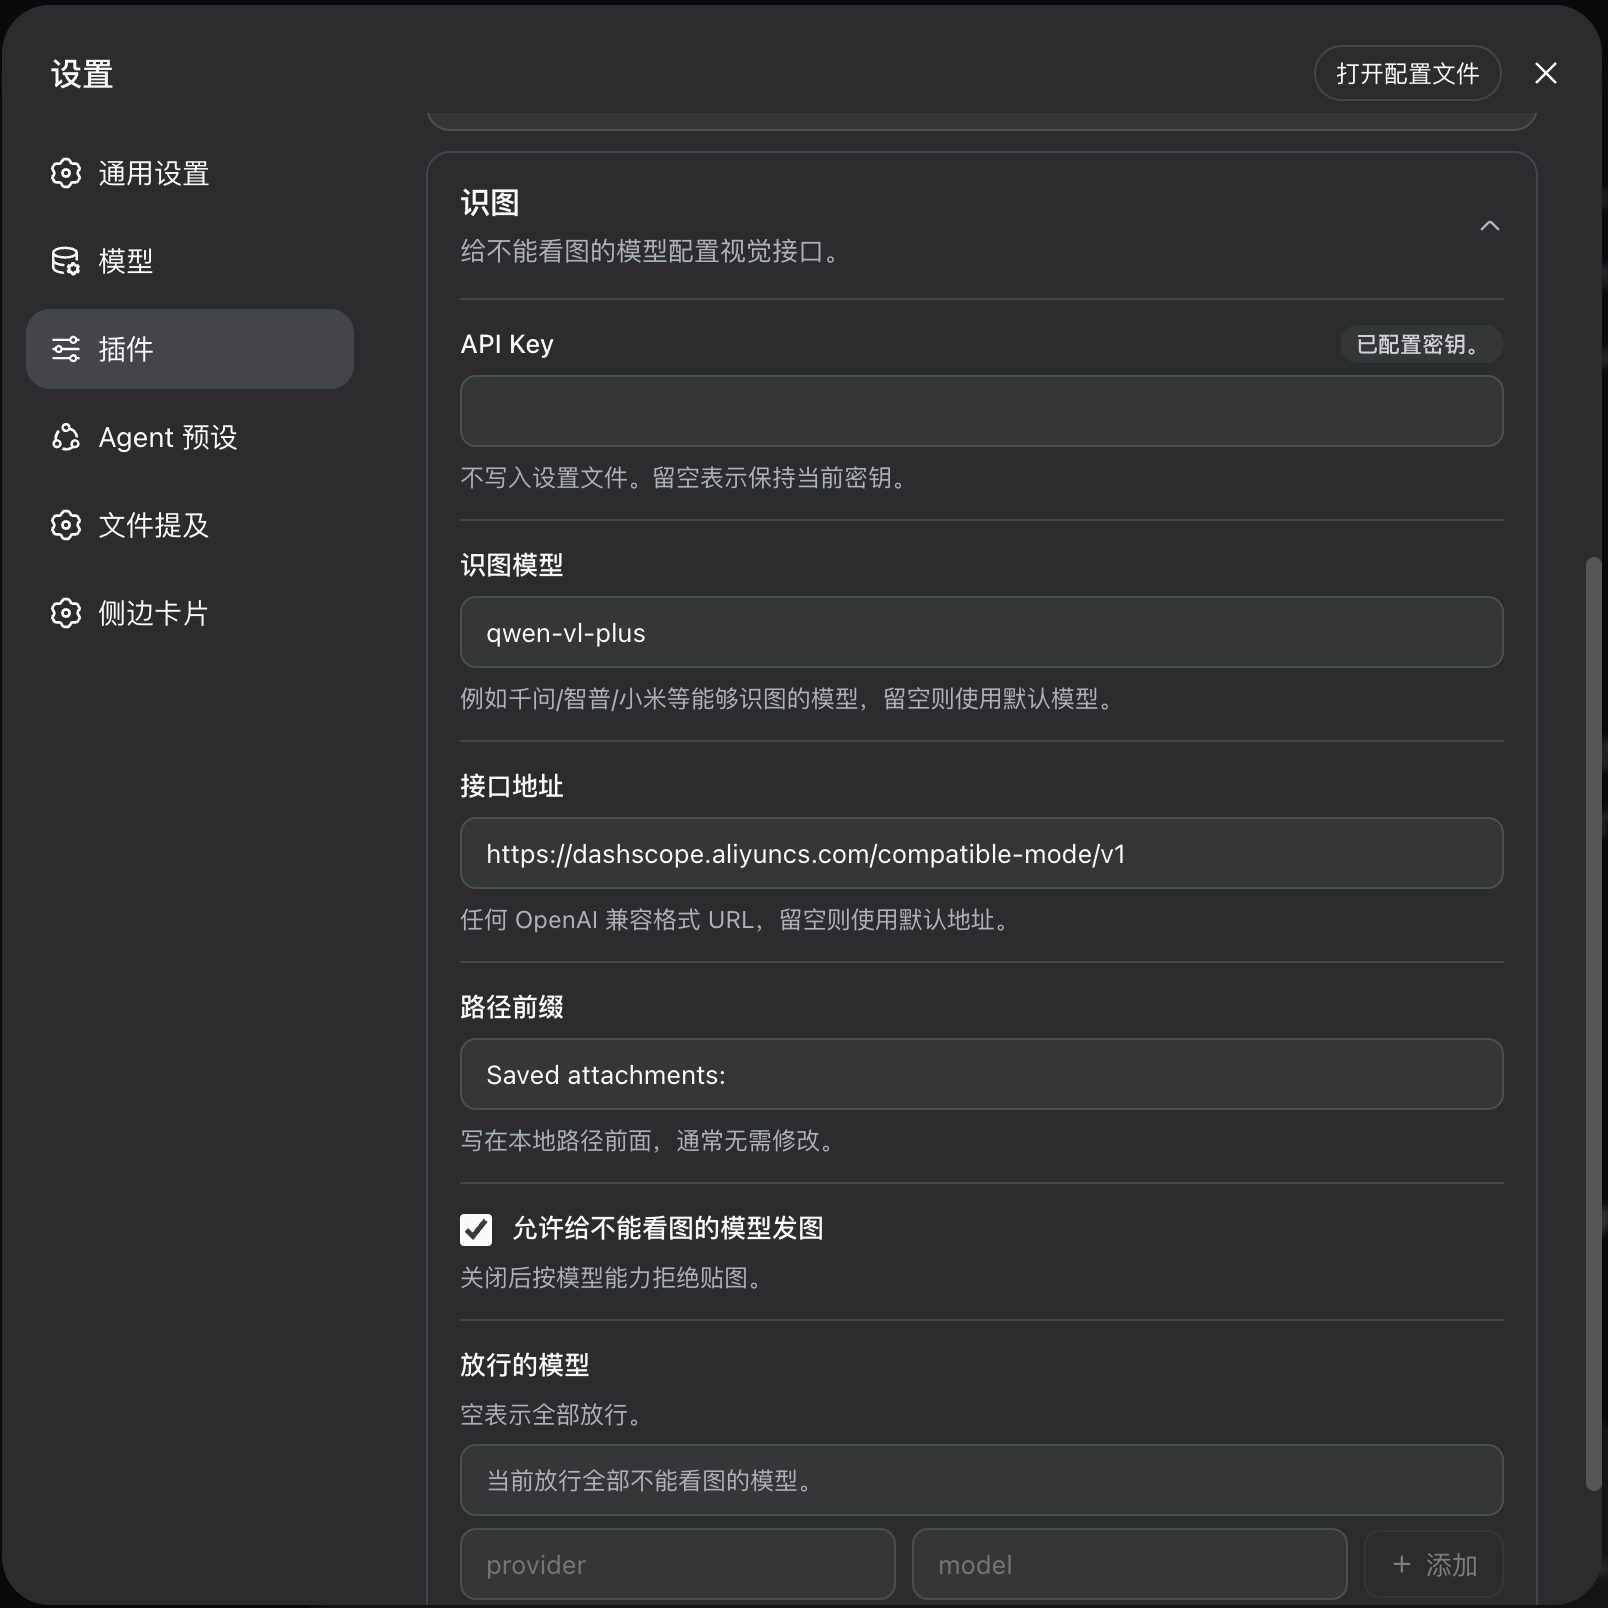
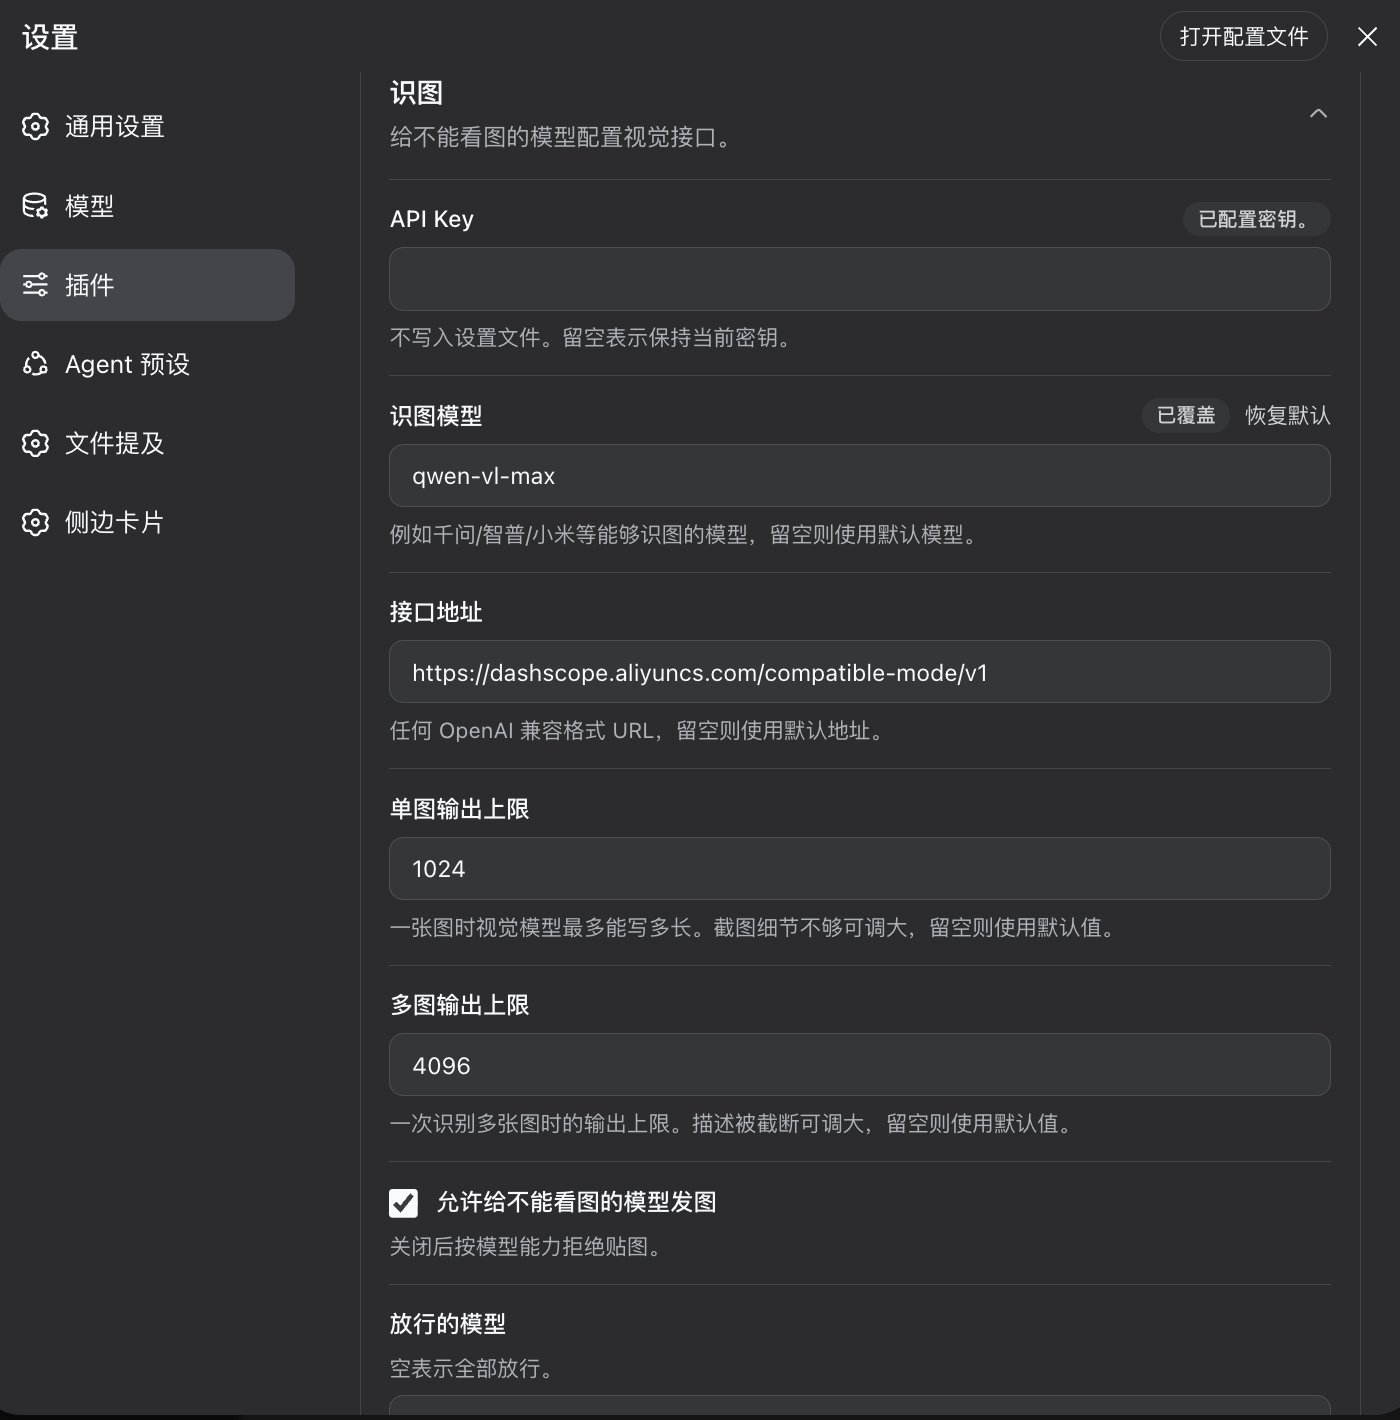
📃 docs: 更新README.md设置图片和版本号v0.1.4

diff --git a/README.md b/README.md
@@ -32,7 +32,7 @@ dsh web
 
 任何 OpenAI 兼容的视觉接口都可以，把地址和模型改成你的服务即可。设置页改动保存后立即生效，不用重启。
 
-设置 → 插件 → 识图
+![设置 → 插件 → 识图](access/settings.png)
 
 ## 更新
 
@@ -58,7 +58,7 @@ dsh plugin --profile web add dsh-image-pathify@version
 5. 给能看图的模型发一张图：模型直接回答，不调用 `analyze_image`
 6. 给能看图的模型发本地图片路径或图片URL：应直接调用 `read_image`，不要先 `analyze_image`
 
-给不能看图的模型发图，模型调用 analyze_image
+![给不能看图的模型发图，模型调用 analyze_image](access/example.png)
 
 ## 配置
 
